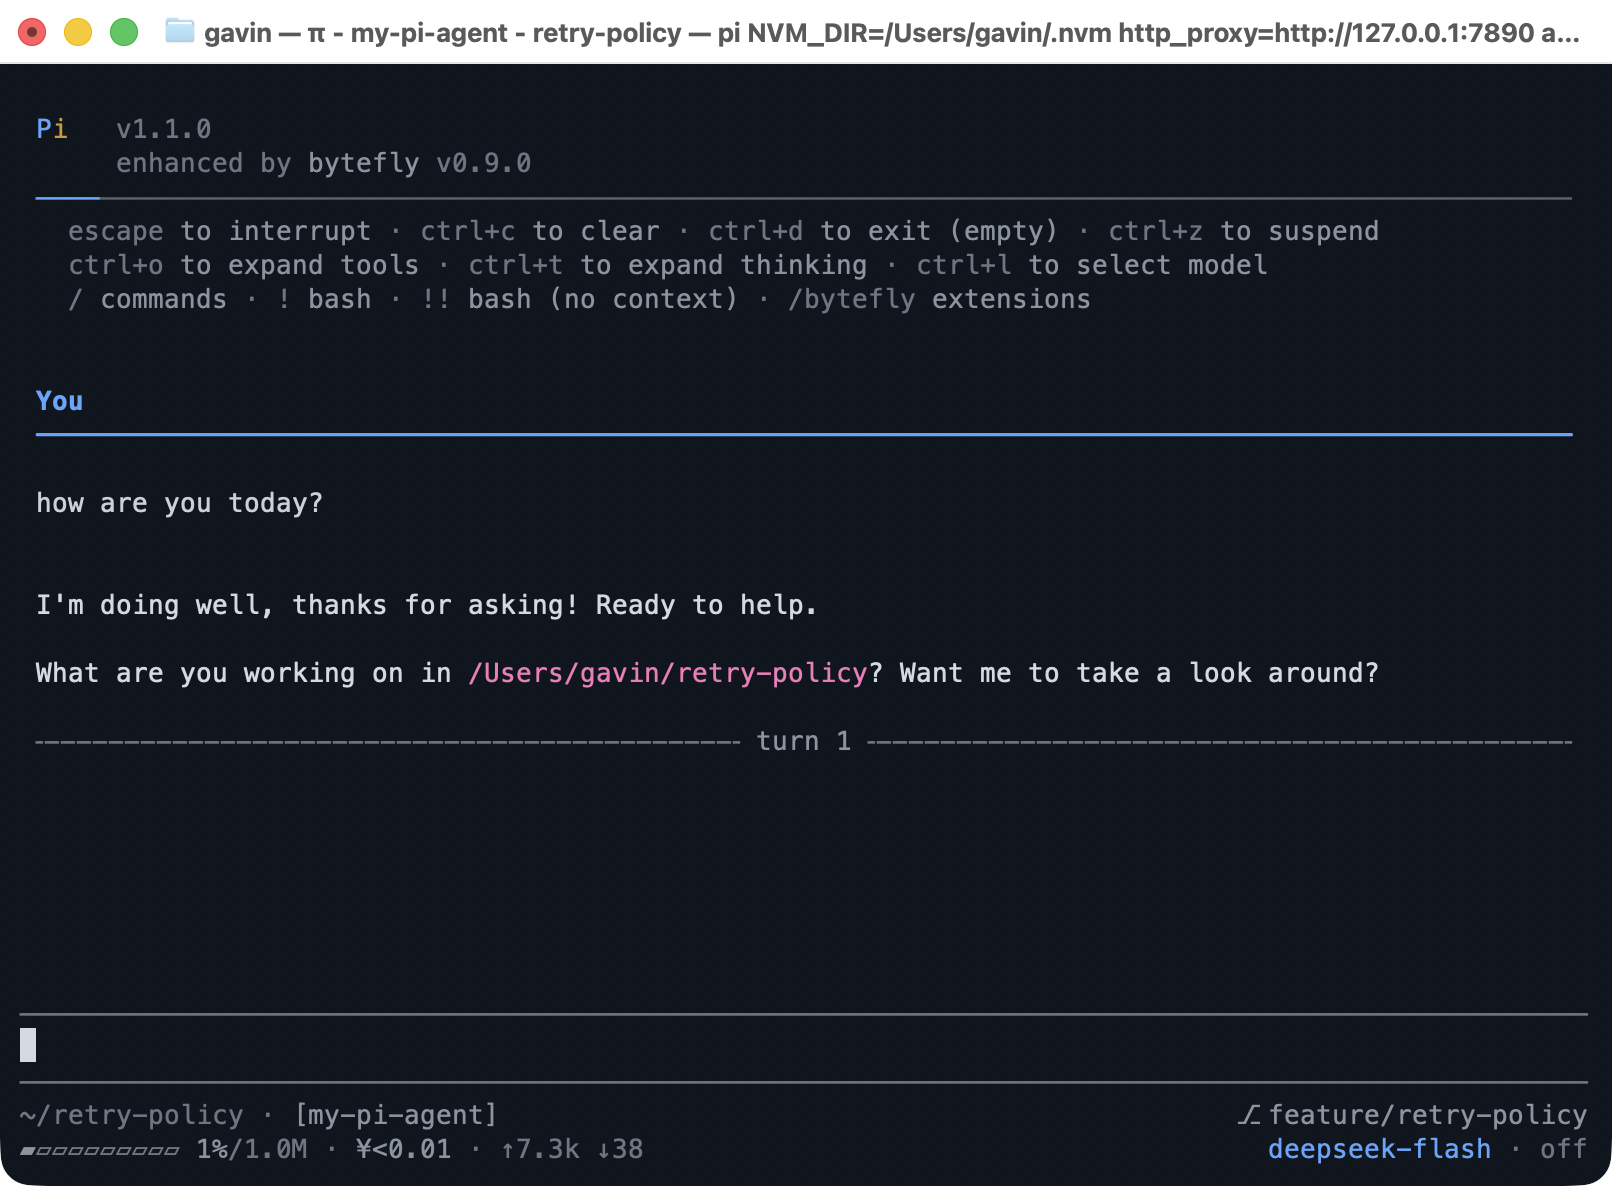
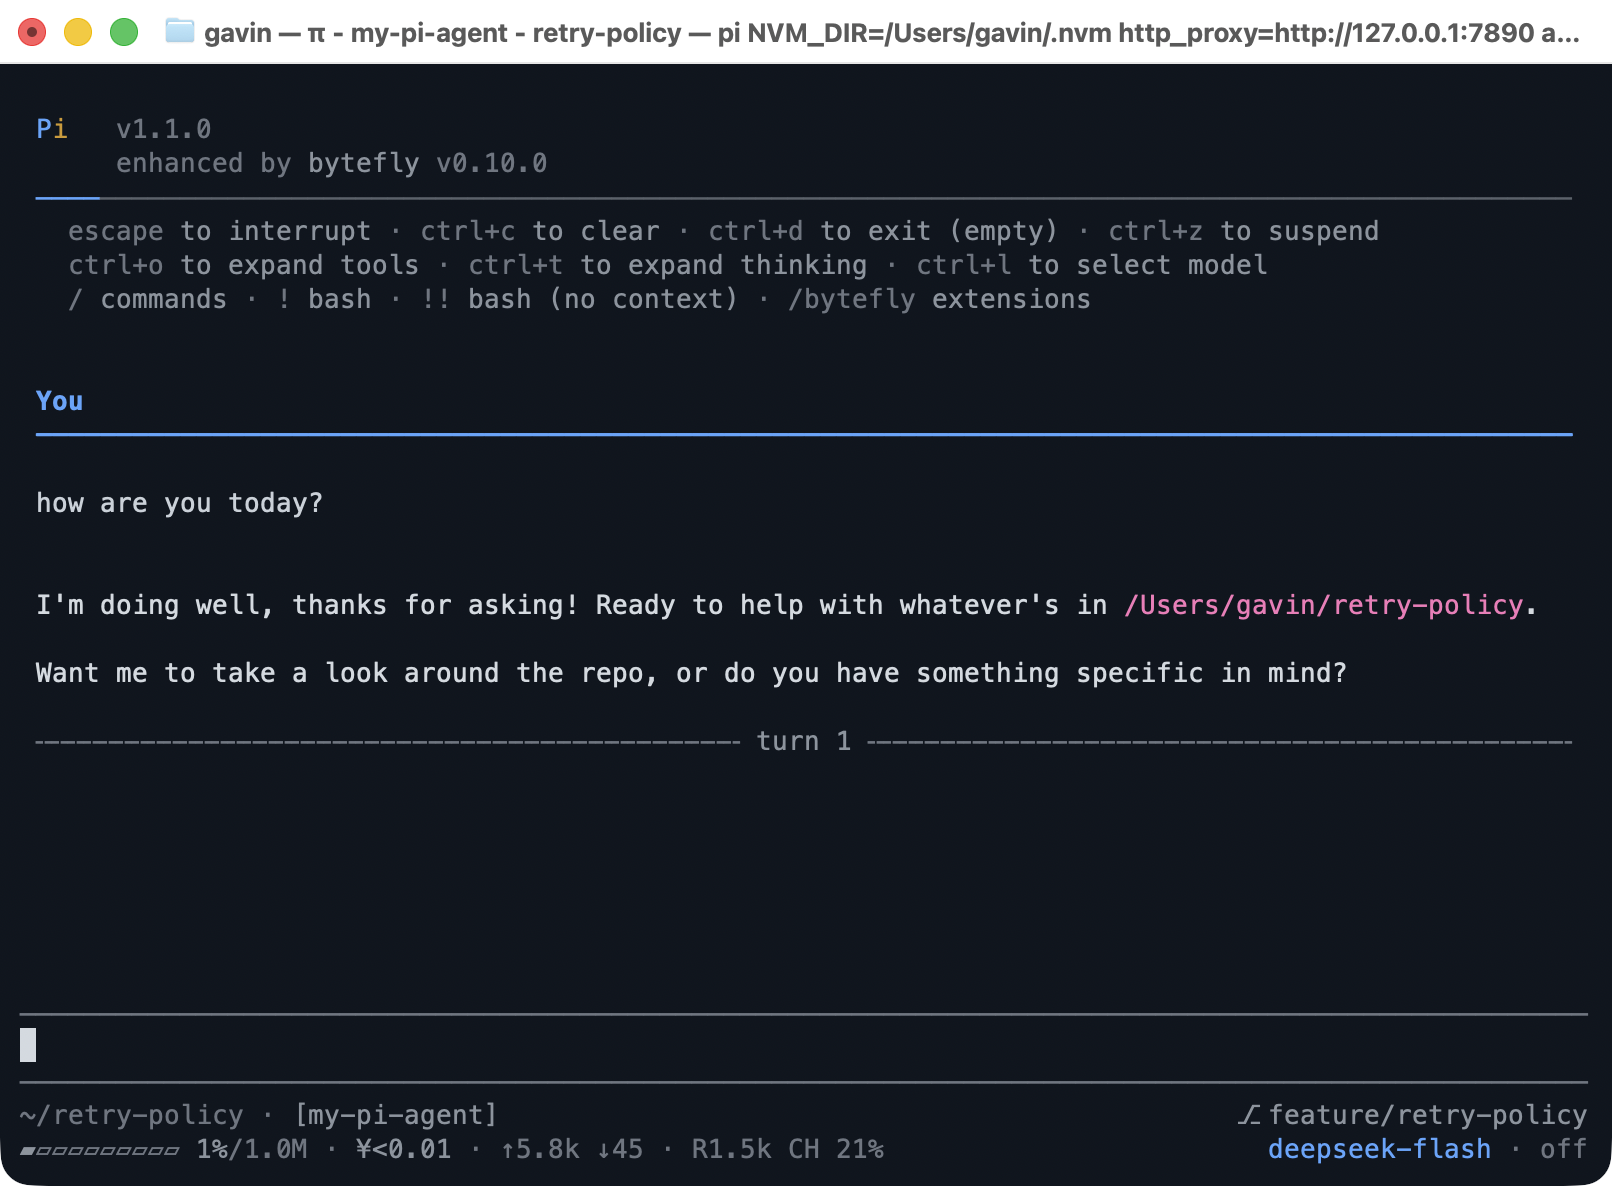
docs(assets): recapture the chrome hero at 0.10.0
The README hero still showed the 0.9.0 header and the old footer, so it
read as a stale picture of the chrome. Recaptured from a real pi -e .
session with the shipped script, which already seeds "how are you
today?".

Changed region(s): [[0.062, 0.5616, 0.8685, 0.5927], [0.4963, 0.4992, 0.9615, 0.5304], [0.3102, 0.1248, 0.3412, 0.156]]

diff --git a/CHANGELOG.md b/CHANGELOG.md
@@ -6,6 +6,11 @@ to [Semantic Versioning](https://semver.org/spec/v2.0.0.html).
 
 ## [Unreleased]
 
+### Changed
+
+- Tooling: `assets/chrome.png` is recaptured from a real `pi -e .` run, so the
+  README hero carries the 0.10.0 header and the current footer fields.
+
 ## [0.10.0] - 2026-10-17
 
 ### Added
